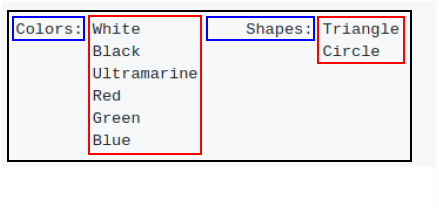
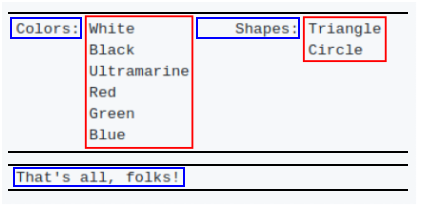
README

Changed region(s): [[0.0, 0.0286, 0.9858, 0.9143], [0.2773, 0.2, 0.3081, 0.2286]]

diff --git a/README.md b/README.md
@@ -107,24 +107,28 @@ if 'also-greet-bob' in sys.argv:
 For reference, this is how the tiling algorithm works.
 
 It parses the supplied string line by line. Each line consists of literal
-text mixed with @{} expressions. Each piece of literal text is kept as is
-while each @{} expression is evaluated and replaced by the resulting tile.
+text mixed with @{} expressions. Each piece of literal text is kept as is.
+Each @{} expression is evaluated and replaced by the resulting tile. Both
+the literal text and the tiles are aligned to the top of the line.
 
 Thus, a line like this:
 
 ```
 Colors: @{colors}     Shapes: @{shapes}
+
+That's all, folks!
 ```
 
-Is rendered like this. Tiles are shown in red frames. Literal text in blue
-frames.
+Is rendered like this. Tiles are shown in red frames. Literal text is in blue
+frames. Black lines mark boundaries between individual lines.
 
 ![](pics/output2.png)
 
-The entire line forms a tile, shown in black. When the tiling algorithm moves
-to the next line it will render it below the black tile. The text generated
-by individual lines can therefore never collide.
+Note 1: Output of tile() function itself is not stripped off
+the surrounding whitespace. This allows for generating programs that start
+or end with empty lines. If you want to remove the whitespace you can do
+so like this: `tile("@{code}")`
 
-Finally, after all lines are processed, the entire result is treated as a tile
-and stripped of any surrounding whitespace.
+Note 2: If you need sequence `@{` to appear in the output (and not be treated
+like an embedded expression) it can be done like this: `@{'@'}{`
 
